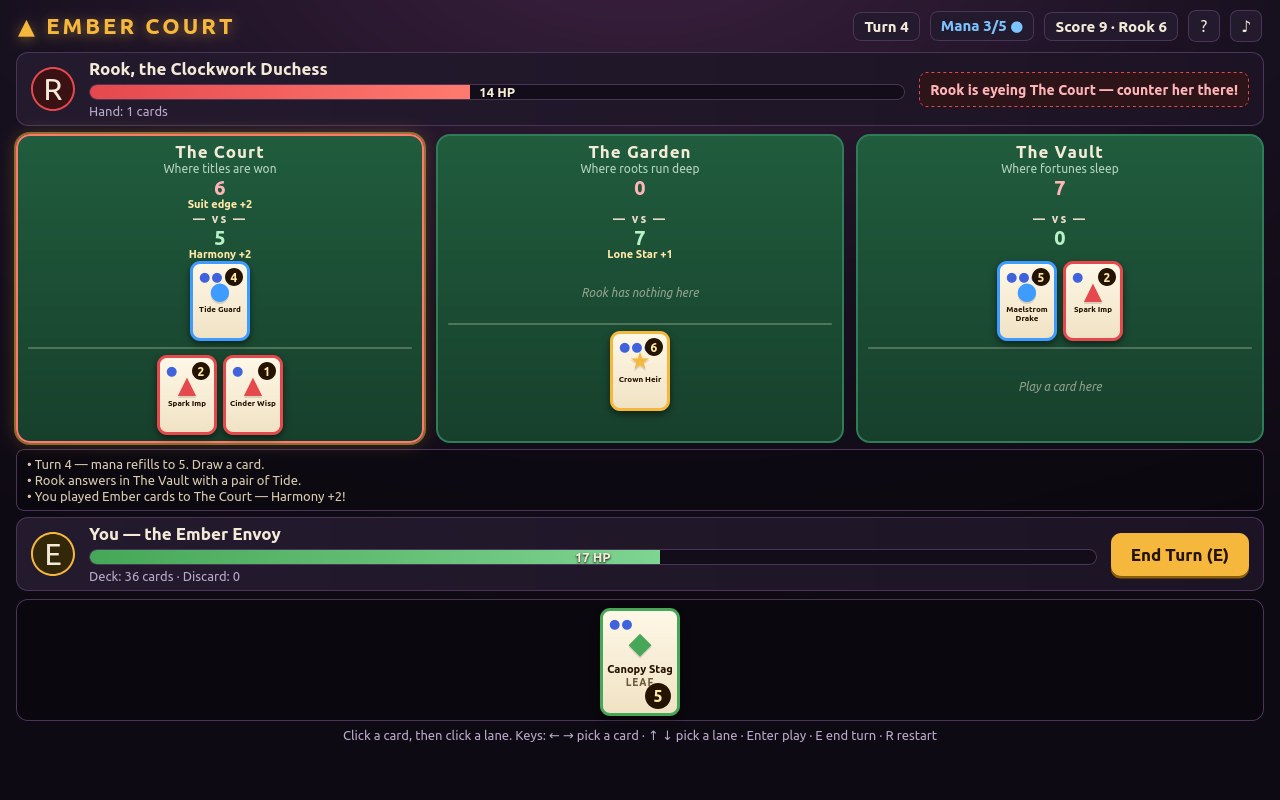
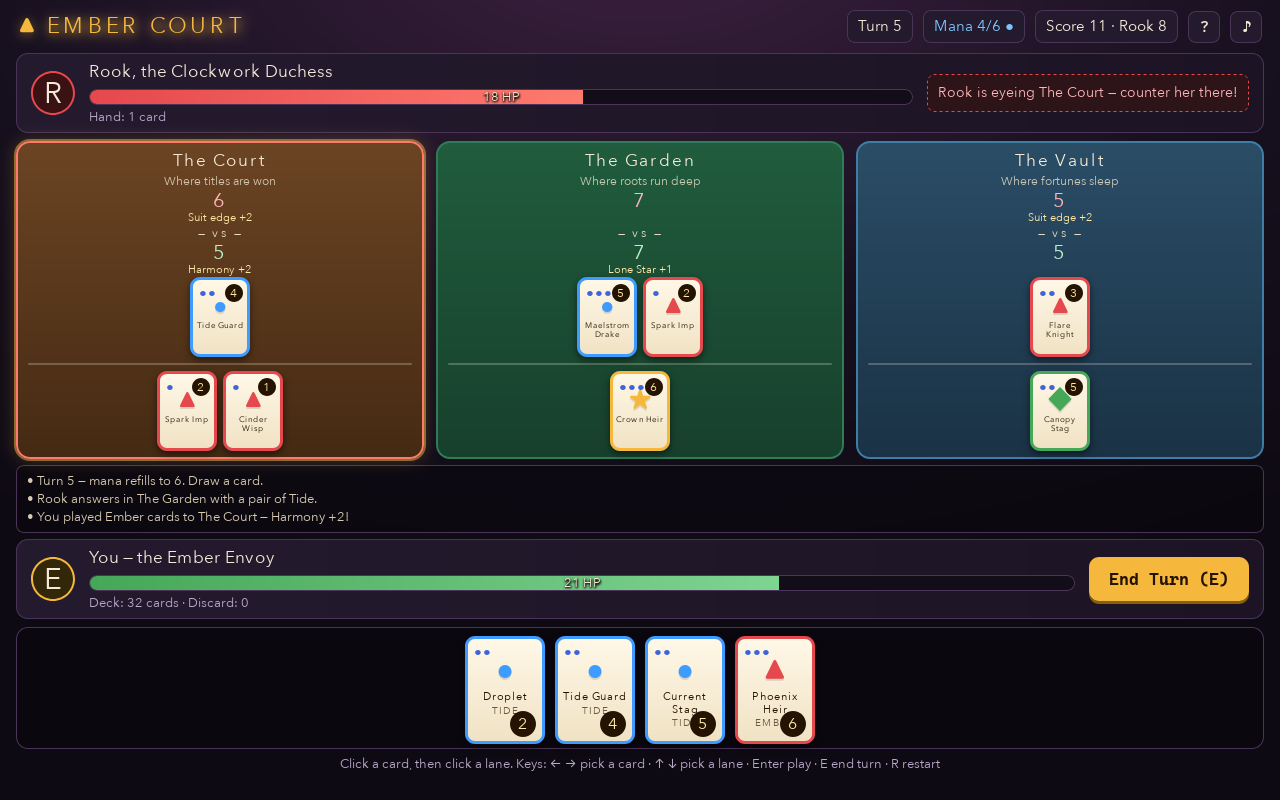
Round 3 optimization: per-lane tints, richer table screenshot, fix tofu glyph in loss panel, singular/plural hand label
- Lanes now visually distinct (Court gold, Garden green, Vault blue)
- Table screenshot preset is a real turn-5 state with every lane contested and a full hand
- DEFEAT panel used U+2715 which rendered as tofu; replaced with U+25BC (verified in font check)
- Hand label now singular/plural correct
Verified: Camoufox playtest seed 42, 0 console errors; screenshots re-rendered 1280x800

diff --git a/game/src/shots.js b/game/src/shots.js
@@ -2,7 +2,7 @@
    Each preset builds a genuine game state and lets the normal renderer draw it,
    so every screenshot is the game's own code at work. */
 
-import { createGame, playCard, resolveLanes, checkEnd, pushLog } from './state.js';
+import { createGame, drawCard, playCard, resolveLanes, checkEnd, pushLog } from './state.js';
 import { chooseIntent, takeFoeTurn } from './ai.js';
 
 export function applyShot(game, shot) {
@@ -11,25 +11,34 @@ export function applyShot(game, shot) {
     return game;
   }
   if (shot === 'table') {
-    // A real mid-game: turn 4, both sides have cards on the table.
+    // A real mid-game: turn 5, both sides contesting every lane, a full hand.
+    // (The old preset left a single card in hand and two near-empty lanes.)
     game.phase = 'play';
-    game.turn = 4;
-    game.mana = 3; game.manaMax = 5;
-    game.you.life = 17; game.foe.life = 14;
-    game.you.score = 9; game.foe.score = 6;
-    game.you.lanesWon = 3; game.foe.lanesWon = 1;
+    game.turn = 5;
+    game.mana = 4; game.manaMax = 6;
+    game.you.life = 21; game.foe.life = 18;
+    game.you.score = 11; game.foe.score = 8;
+    game.you.lanesWon = 4; game.foe.lanesWon = 2;
     const youCourt = game.you.hand.splice(0, 2);
     const youGarden = game.you.hand.splice(0, 1);
+    const youVault = game.you.hand.splice(0, 1);
     game.lanes[0].you.push(...youCourt);
     game.lanes[1].you.push(...youGarden);
+    game.lanes[2].you.push(...youVault);
     const foeCourt = game.foe.hand.splice(0, 1);
-    const foeVault = game.foe.hand.splice(0, 2);
+    const foeGarden = game.foe.hand.splice(0, 2);
+    const foeVault = game.foe.hand.splice(0, 1);
     game.lanes[0].foe.push(...foeCourt);
+    game.lanes[1].foe.push(...foeGarden);
     game.lanes[2].foe.push(...foeVault);
+    // Refill the hand the way real turns do, so the shot shows a real hand.
+    drawCard(game, game.you); drawCard(game, game.you);
+    drawCard(game, game.you); drawCard(game, game.you);
+    drawCard(game, game.foe); // Rook holds 1 — exercises the singular label.
     game.foeIntent = 'court';
     pushLog(game, 'You played Ember cards to The Court — Harmony +2!');
-    pushLog(game, 'Rook answers in The Vault with a pair of Tide.');
-    pushLog(game, 'Turn 4 — mana refills to 5. Draw a card.');
+    pushLog(game, 'Rook answers in The Garden with a pair of Tide.');
+    pushLog(game, 'Turn 5 — mana refills to 6. Draw a card.');
     return game;
   }
   if (shot === 'win' || shot === 'loss') {

diff --git a/game/src/render.js b/game/src/render.js
@@ -31,7 +31,7 @@ export function render(game, ui) {
   $('foe-life-text').textContent = `${Math.max(0, game.foe.life)} HP`;
   $('you-life-fill').style.width = `${Math.max(0, game.you.life) / START_LIFE * 100}%`;
   $('foe-life-fill').style.width = `${Math.max(0, game.foe.life) / START_LIFE * 100}%`;
-  $('foe-hand-label').textContent = `Hand: ${game.foe.hand.length} cards`;
+  $('foe-hand-label').textContent = `Hand: ${game.foe.hand.length} card${game.foe.hand.length === 1 ? '' : 's'}`;
   $('deck-label').textContent = `Deck: ${game.you.deck.length} cards · Discard: ${game.you.discard.length}`;
   $('foe-intent').textContent = game.foeIntent
     ? `Rook is eyeing ${laneName(game, game.foeIntent)} — counter her there!`
@@ -60,7 +60,7 @@ function renderLanes(game, ui) {
     col.dataset.lane = lane.id;
     const winnerMark = game.lastResolution
       ? (game.lastResolution.find((r) => r.laneId === lane.id)?.winner ?? null) : null;
-    col.className = `lane${ui.selectedLane === lane.id ? ' lane-target' : ''}${game.foeIntent === lane.id ? ' lane-threat' : ''}${winnerMark === 'you' ? ' lane-won-you' : winnerMark === 'foe' ? ' lane-won-foe' : ''}`;
+    col.className = `lane lane-${lane.id}${ui.selectedLane === lane.id ? ' lane-target' : ''}${game.foeIntent === lane.id ? ' lane-threat' : ''}${winnerMark === 'you' ? ' lane-won-you' : winnerMark === 'foe' ? ' lane-won-foe' : ''}`;
     col.innerHTML = `
       <div class="lane-head">
         <div class="lane-name">${lane.name}</div>
@@ -135,7 +135,7 @@ function renderOverlay(game, ui) {
     overlay.className = '';
     overlay.innerHTML = `
       <div class="panel ${won ? 'win-panel' : 'loss-panel'}">
-        <div class="end-glyph">${won ? '★' : '✕'}</div>
+        <div class="end-glyph">${won ? '★' : '▼'}</div>
         <h1>${won ? 'VICTORY!' : 'DEFEAT'}</h1>
         <p class="tagline">${won
           ? 'The Court is yours. Rook bows, and the candles burn gold.'

diff --git a/game/style.css b/game/style.css
@@ -40,13 +40,17 @@ body {
 
 /* Lanes */
 #lanes { display: grid; grid-template-columns: 1fr 1fr 1fr; gap: 12px; margin: 8px 0 6px; }
-.lane { background: #1e5c46; background: linear-gradient(180deg, #205c3d 0%, #17402c 100%); border: 2px solid #2f7d57; border-radius: 14px; padding: 6px; min-height: 196px; cursor: pointer; transition: border-color .15s, box-shadow .15s; }
+.lane { background: linear-gradient(180deg, #205c3d 0%, #17402c 100%); border: 2px solid #2f7d57; border-radius: 14px; padding: 6px; min-height: 196px; cursor: pointer; transition: border-color .15s, box-shadow .15s; }
+/* Each lane reads at a glance: Court warm gold, Garden green, Vault deep blue. */
+.lane-court { background: linear-gradient(180deg, #6b4423 0%, #452a13 100%); border-color: #a8763e; }
+.lane-garden { background: linear-gradient(180deg, #205c3d 0%, #17402c 100%); border-color: #2f7d57; }
+.lane-vault { background: linear-gradient(180deg, #2a4d66 0%, #1a3245 100%); border-color: #3e7ea6; }
 .lane:hover { border-color: #f5b83d; }
 .lane-target { border-color: #f5b83d; box-shadow: 0 0 0 2px rgba(245,184,61,.5), 0 0 18px rgba(245,184,61,.25); }
 .lane-threat { border-color: #ff7a6e; }
 .lane-head { text-align: center; }
 .lane-name { font-size: 17px; font-weight: 800; letter-spacing: 1px; }
-.lane-blurb { font-size: 12px; color: #cfe8d8; opacity: .85; }
+.lane-blurb { font-size: 12px; color: #e6dcc4; opacity: .85; }
 .lane-score { font-size: 20px; font-weight: 800; line-height: 1.1; }
 .foe-score { color: #ffb4b8; }
 .you-score { color: #b8f0c8; }
